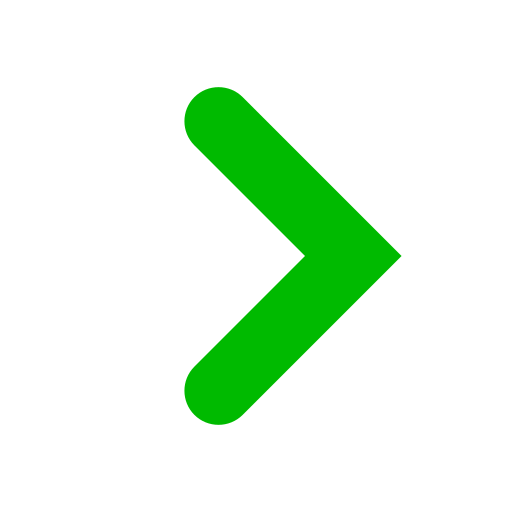
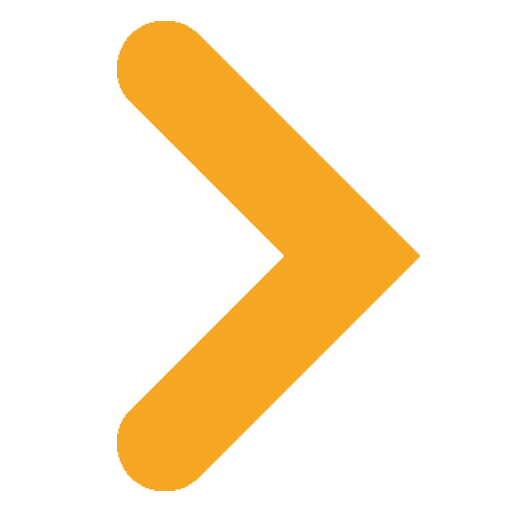
style: substitui seta do painel XP pela nova imagem sem filtro CSS

Changed region(s): [[0.2188, 0.0312, 0.8125, 0.9688]]

diff --git a/index-test.html b/index-test.html
@@ -5368,7 +5368,7 @@ function renderStart(){
         <div class="profile-lvl-num">${lvl.n}</div>
         <div class="profile-lvl-lbl">${t('level_label')}</div>
       </div>
-      <img src="setas-flechas.png" style="width:30px;height:30px;object-fit:contain;flex-shrink:0;margin-left:.3rem;filter:hue-rotate(-83deg) saturate(.9) brightness(1.4)">
+      <img src="setas-flechas.png" style="width:30px;height:30px;object-fit:contain;flex-shrink:0;margin-left:.3rem">
     </button>
     <div class="start-hero-d3">
       <div class="start-title">${t('train_ear').replace('Ouvido','<span>Ouvido</span>').replace('Ear','<span>Ear</span>')}</div>

diff --git a/index.html b/index.html
@@ -5368,7 +5368,7 @@ function renderStart(){
         <div class="profile-lvl-num">${lvl.n}</div>
         <div class="profile-lvl-lbl">${t('level_label')}</div>
       </div>
-      <img src="setas-flechas.png" style="width:30px;height:30px;object-fit:contain;flex-shrink:0;margin-left:.3rem;filter:hue-rotate(-83deg) saturate(.9) brightness(1.4)">
+      <img src="setas-flechas.png" style="width:30px;height:30px;object-fit:contain;flex-shrink:0;margin-left:.3rem">
     </button>
     <div class="start-hero-d3">
       <div class="start-title">${t('train_ear').replace('Ouvido','<span>Ouvido</span>').replace('Ear','<span>Ear</span>')}</div>
